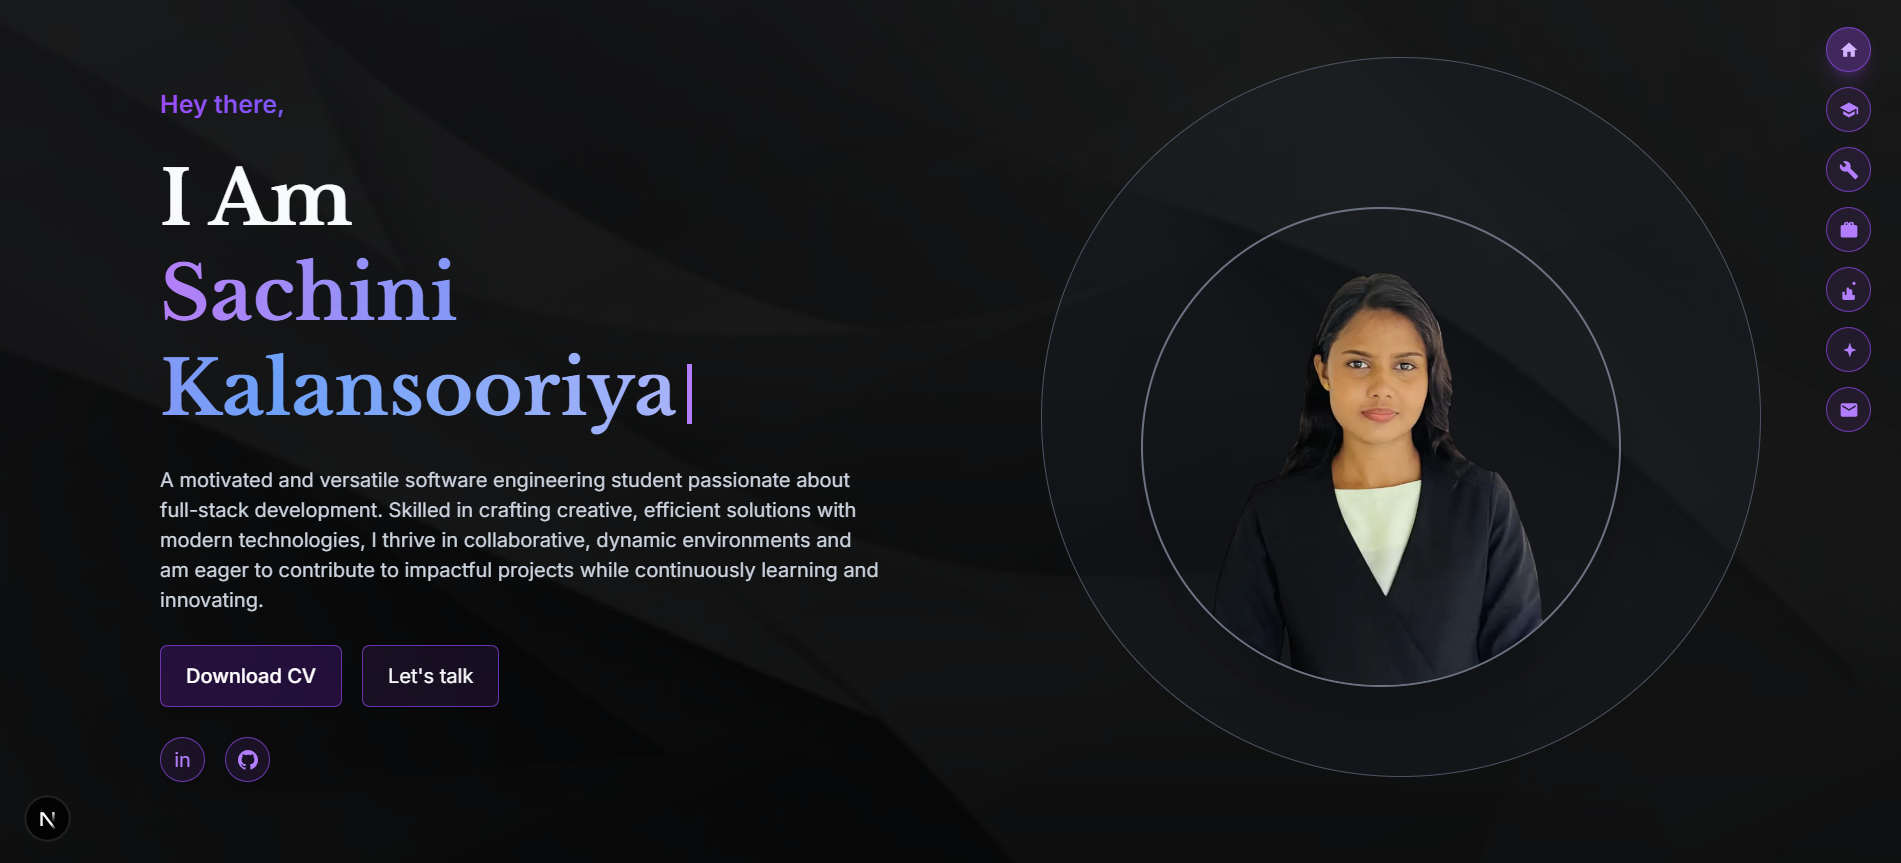
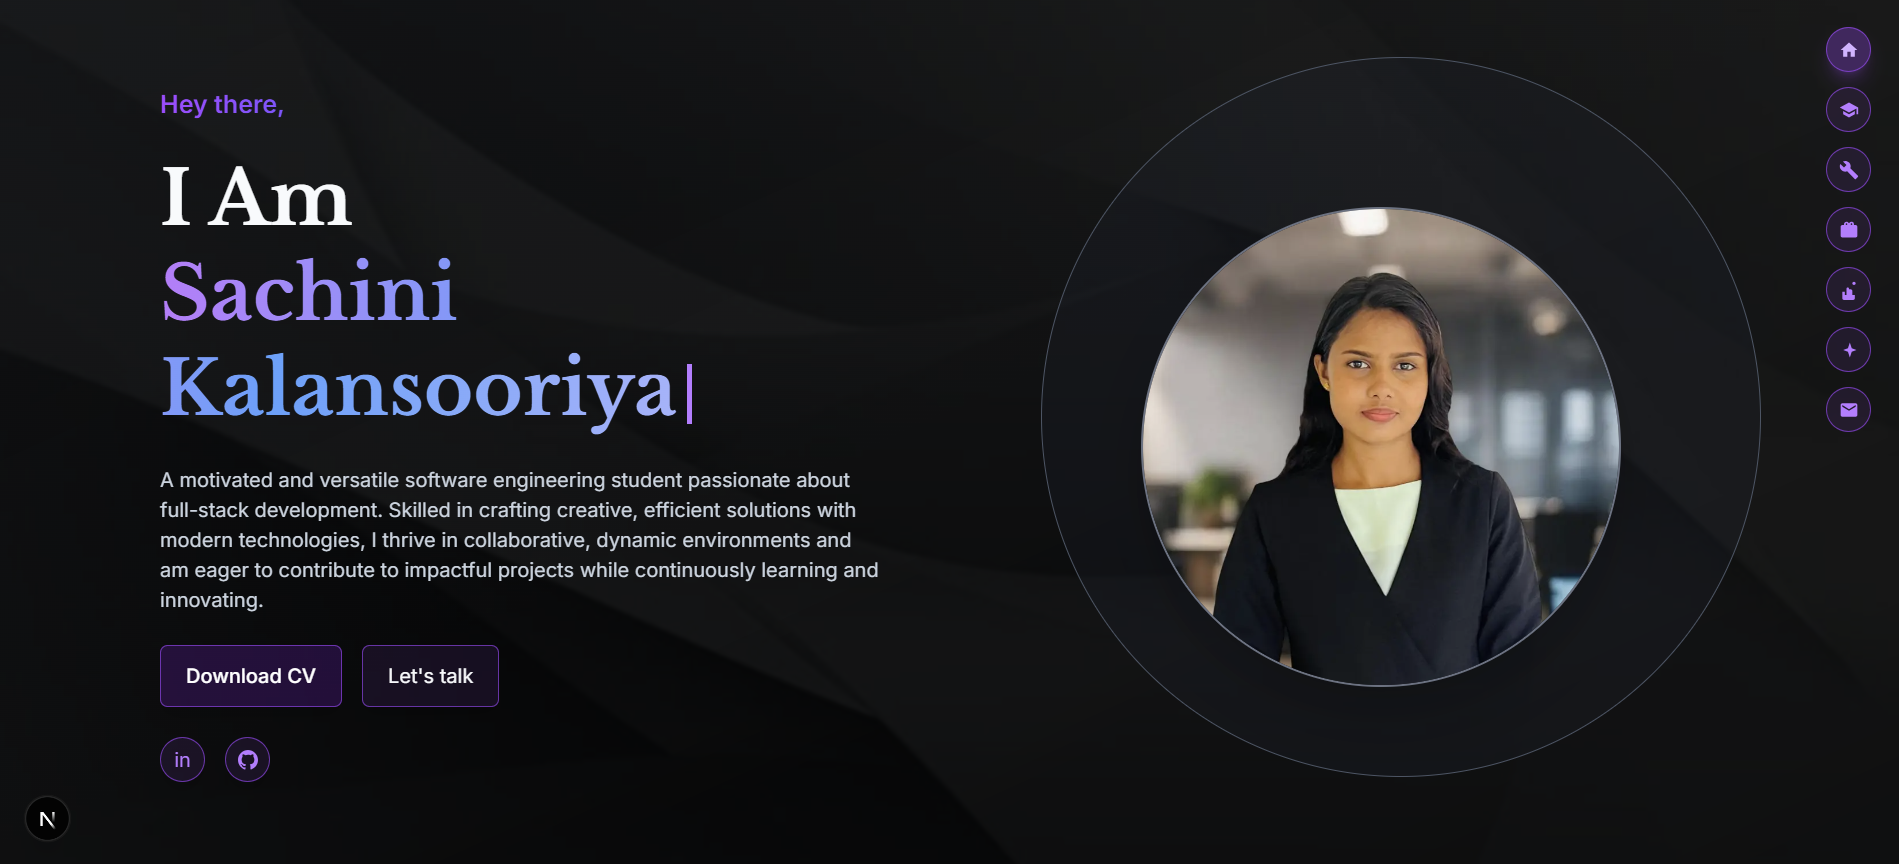
Replace profile image format from PNG to JPG for improved compatibility

diff --git a/src/app/page.tsx b/src/app/page.tsx
@@ -722,7 +722,7 @@ export default function Home() {
 
                 {/* portrait (increased size) */}
                 <div className="relative overflow-hidden border-2 border-gray-500 rounded-full shadow-2xl w-72 h-72 md:w-96 md:h-96">
-                  <Image src="/propic.png" alt="Profile" className="object-cover w-full h-full" width={384} height={384} />
+                  <Image src="/propic.jpg" alt="Profile" className="object-cover w-full h-full" width={384} height={384} />
                 </div>
             </div>
           </div>
